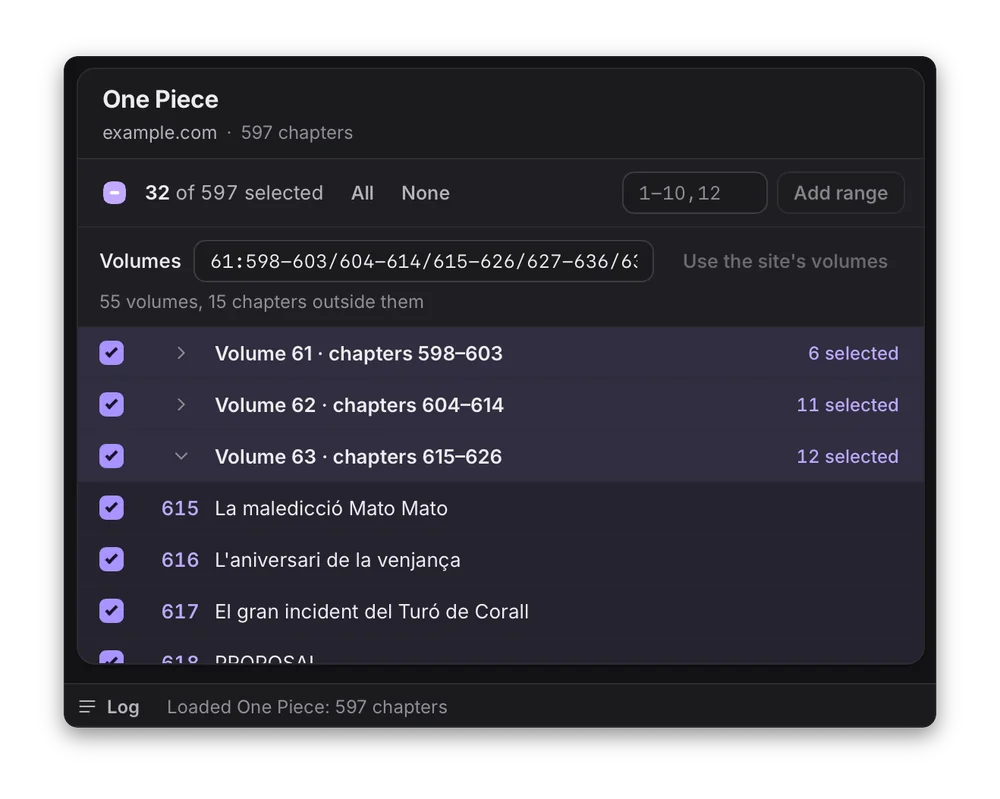
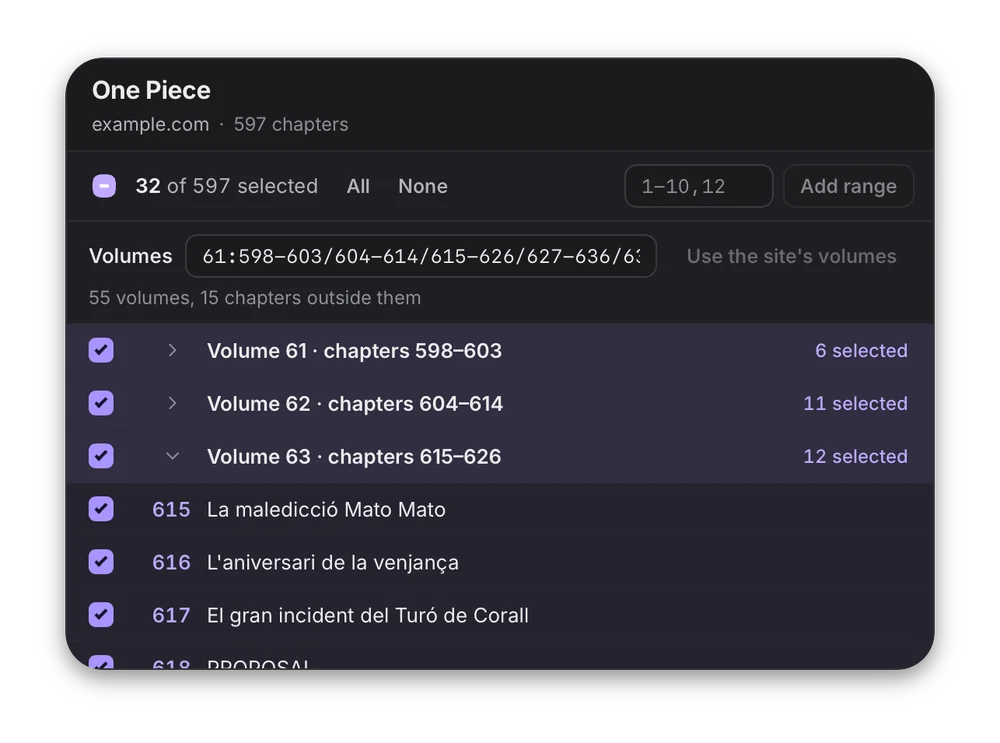
fix(website): crop the app panels to their own bounds and radius

diff --git a/website/index.html b/website/index.html
@@ -193,7 +193,7 @@
                   <source type="image/webp" srcset="/src/assets/screenshots/chapter-list-light-600.webp 600w, /src/assets/screenshots/chapter-list-light-1000.webp 1000w"
                           sizes="(min-width: 821px) 45vw, 92vw" />
                   <img src="/src/assets/screenshots/chapter-list-light-1000.webp" srcset="/src/assets/screenshots/chapter-list-light-600.webp 600w, /src/assets/screenshots/chapter-list-light-1000.webp 1000w"
-                       sizes="(min-width: 821px) 45vw, 92vw" width="1000" height="799" alt="{{a:desktop.chapterListAlt}}" loading="lazy" />
+                       sizes="(min-width: 821px) 45vw, 92vw" width="1000" height="743" alt="{{a:desktop.chapterListAlt}}" loading="lazy" />
                 </picture>
               </figure>
             </article>
@@ -210,7 +210,7 @@
                   <source type="image/webp" srcset="/src/assets/screenshots/volumes-light-600.webp 600w, /src/assets/screenshots/volumes-light-1000.webp 1000w"
                           sizes="(min-width: 821px) 45vw, 92vw" />
                   <img src="/src/assets/screenshots/volumes-light-1000.webp" srcset="/src/assets/screenshots/volumes-light-600.webp 600w, /src/assets/screenshots/volumes-light-1000.webp 1000w"
-                       sizes="(min-width: 821px) 45vw, 92vw" width="1000" height="799" alt="{{a:desktop.volumesAlt}}" loading="lazy" />
+                       sizes="(min-width: 821px) 45vw, 92vw" width="1000" height="743" alt="{{a:desktop.volumesAlt}}" loading="lazy" />
                 </picture>
               </figure>
             </article>
@@ -252,7 +252,7 @@
                   <source type="image/webp" srcset="/src/assets/screenshots/finished-run-light-600.webp 600w, /src/assets/screenshots/finished-run-light-1000.webp 1000w"
                           sizes="(min-width: 821px) 45vw, 92vw" />
                   <img src="/src/assets/screenshots/finished-run-light-1000.webp" srcset="/src/assets/screenshots/finished-run-light-600.webp 600w, /src/assets/screenshots/finished-run-light-1000.webp 1000w"
-                       sizes="(min-width: 821px) 45vw, 92vw" width="1000" height="1191" alt="{{a:desktop.finishedAlt}}" loading="lazy" />
+                       sizes="(min-width: 821px) 45vw, 92vw" width="1000" height="1206" alt="{{a:desktop.finishedAlt}}" loading="lazy" />
                 </picture>
               </figure>
             </article>

diff --git a/website/README.md b/website/README.md
@@ -80,8 +80,9 @@ every browser the site cares about reads, so there are no PNG fallbacks.
   2000 px originals in the repo's [`assets/screenshots/`](../assets/screenshots/),
   at 600 and 1000 px wide.
   They are cut to the part that matters, so they stay readable at the
-  ~500 px they are shown at. Each gets the window's rounded corners and a soft
-  shadow on a transparent margin of 56 px.
+  ~500 px they are shown at. `language-selector` keeps the window's rounded corners; the others are cut to
+  the panel's own 1 px border box and radius (24 px on the original), so no window
+  background shows around them. Each gets a soft shadow on a transparent margin of 56 px.
 
 The files are converted offline and committed, so the build needs no image tools.
 The crop script is [`build/crop-screenshots.sh`](build/crop-screenshots.sh). The
@@ -89,15 +90,15 @@ geometry is `WxH+X+Y` on the 2000x1390 original, with the window's top-left at
 (85,56), so `03-language-selector-*.png` crops to `740x960+85+56`, the
 left-hand part of the window with the Language dropdown open, stopping short of
 the range box. The
-`finished-run` crop starts at x=1245, between the chapter list and the Activity
-panel, so no edge of the list shows in it:
+panel crops start on the panel's border (`finished-run` at x=1259, the Activity
+panel's left edge, so no edge of the list shows in it):
 
 | Crop                | Original                                | Geometry            |
 | ------------------- | --------------------------------------- | ------------------- |
 | `language-selector` | `03-language-selector-{light,dark}.png` | `740x960+85+56`     |
-| `chapter-list`      | `04-downloading-{light,dark}.png`       | `1150x885+100+390`  |
-| `volumes`           | `07-volumes-{light,dark}.png`           | `1150x885+100+390`  |
-| `finished-run`      | `05-done-{light,dark}.png`              | `670x830+1245+390`  |
+| `chapter-list`      | `04-downloading-{light,dark}.png`       | `1118x787+117+405`  |
+| `volumes`           | `07-volumes-{light,dark}.png`           | `1118x787+117+405`  |
+| `finished-run`      | `05-done-{light,dark}.png`              | `624x787+1259+405`  |
 
 To regenerate from the originals, run it with the repo's originals folder and an
 output folder, from `website/`:
